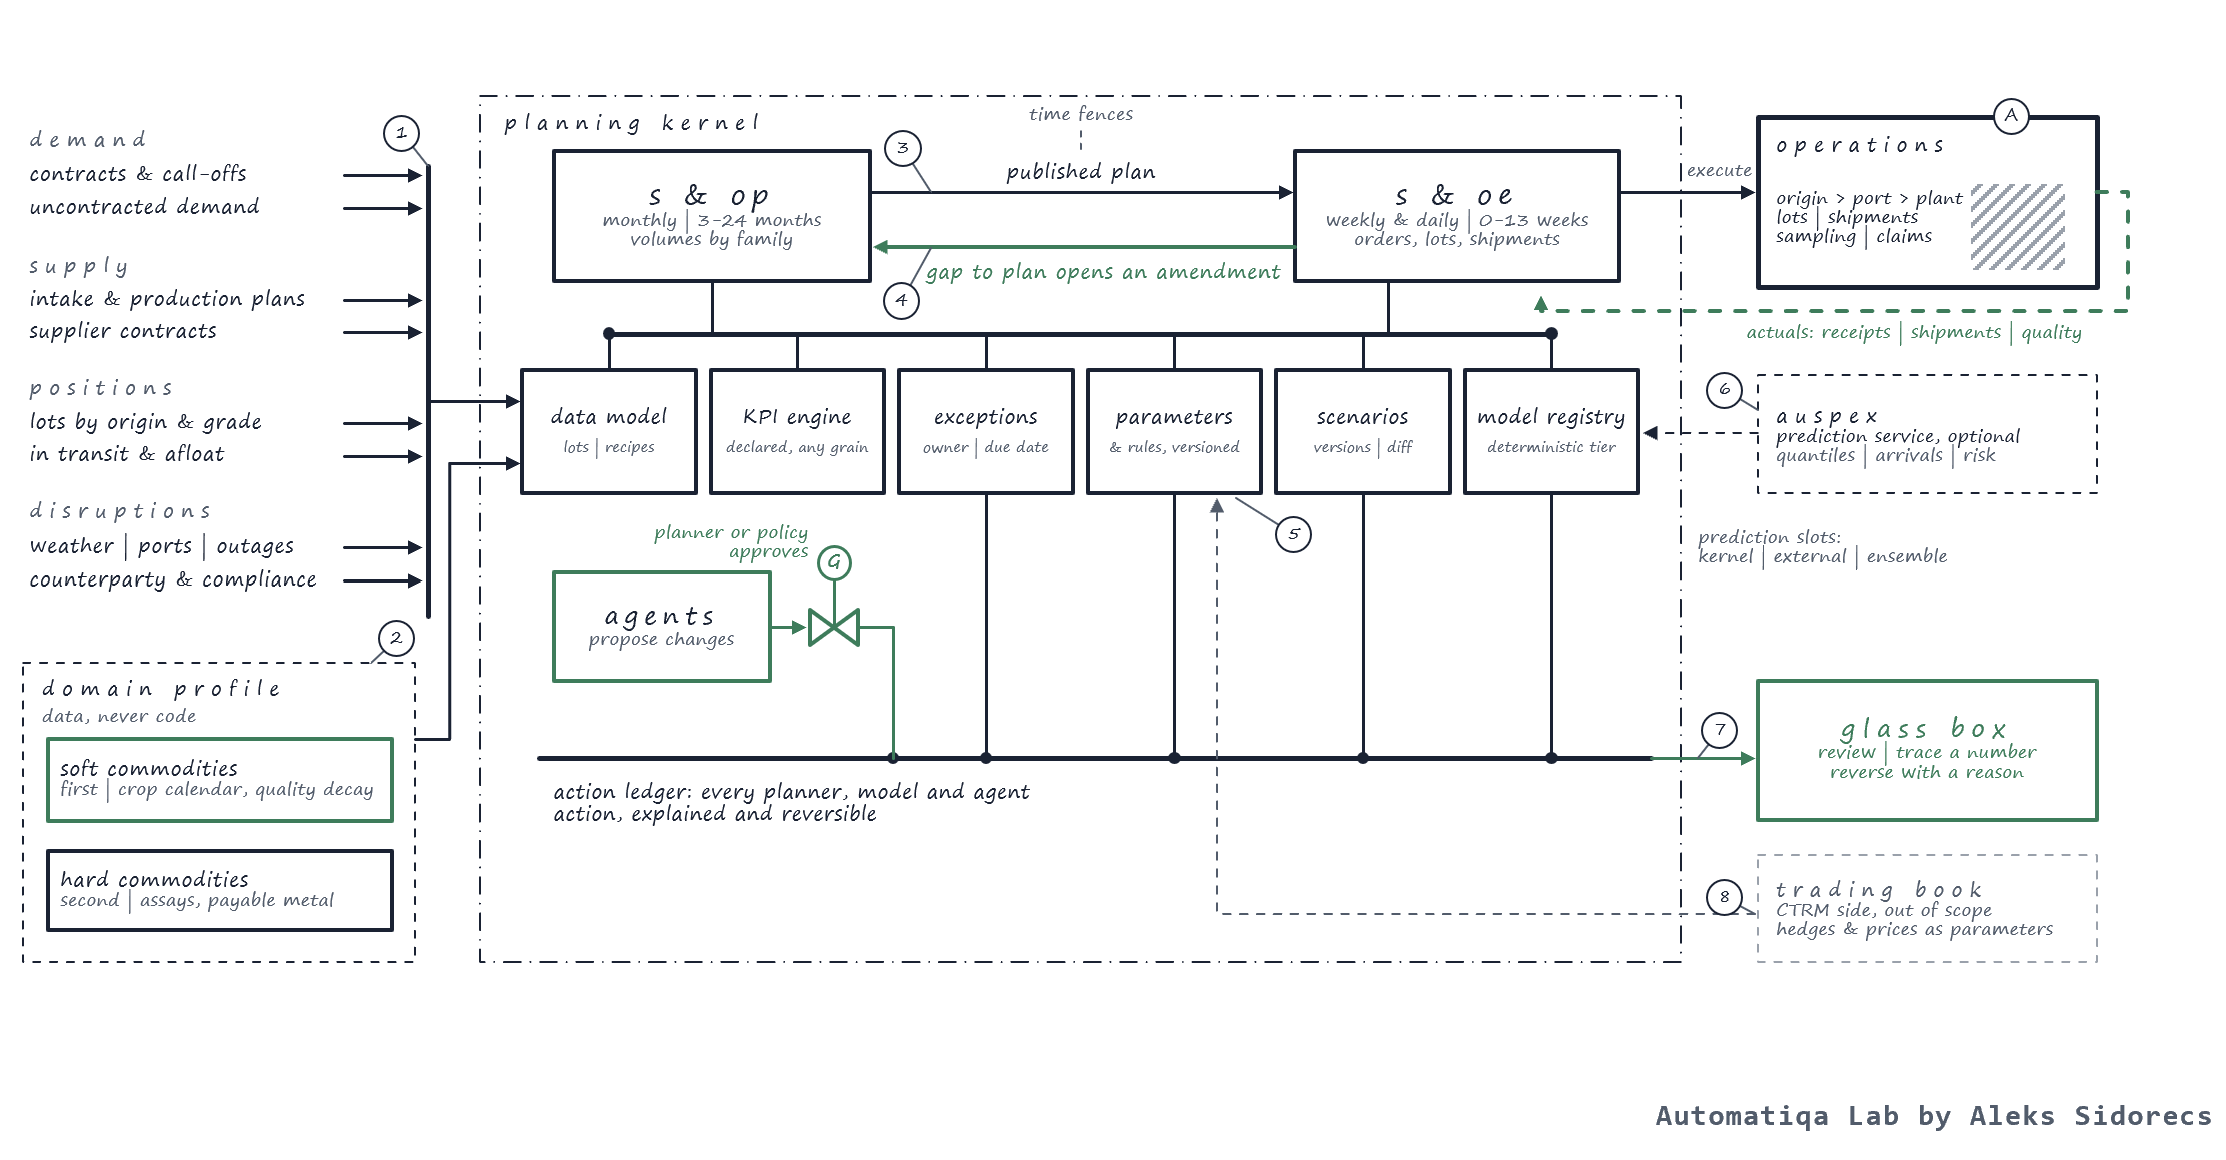
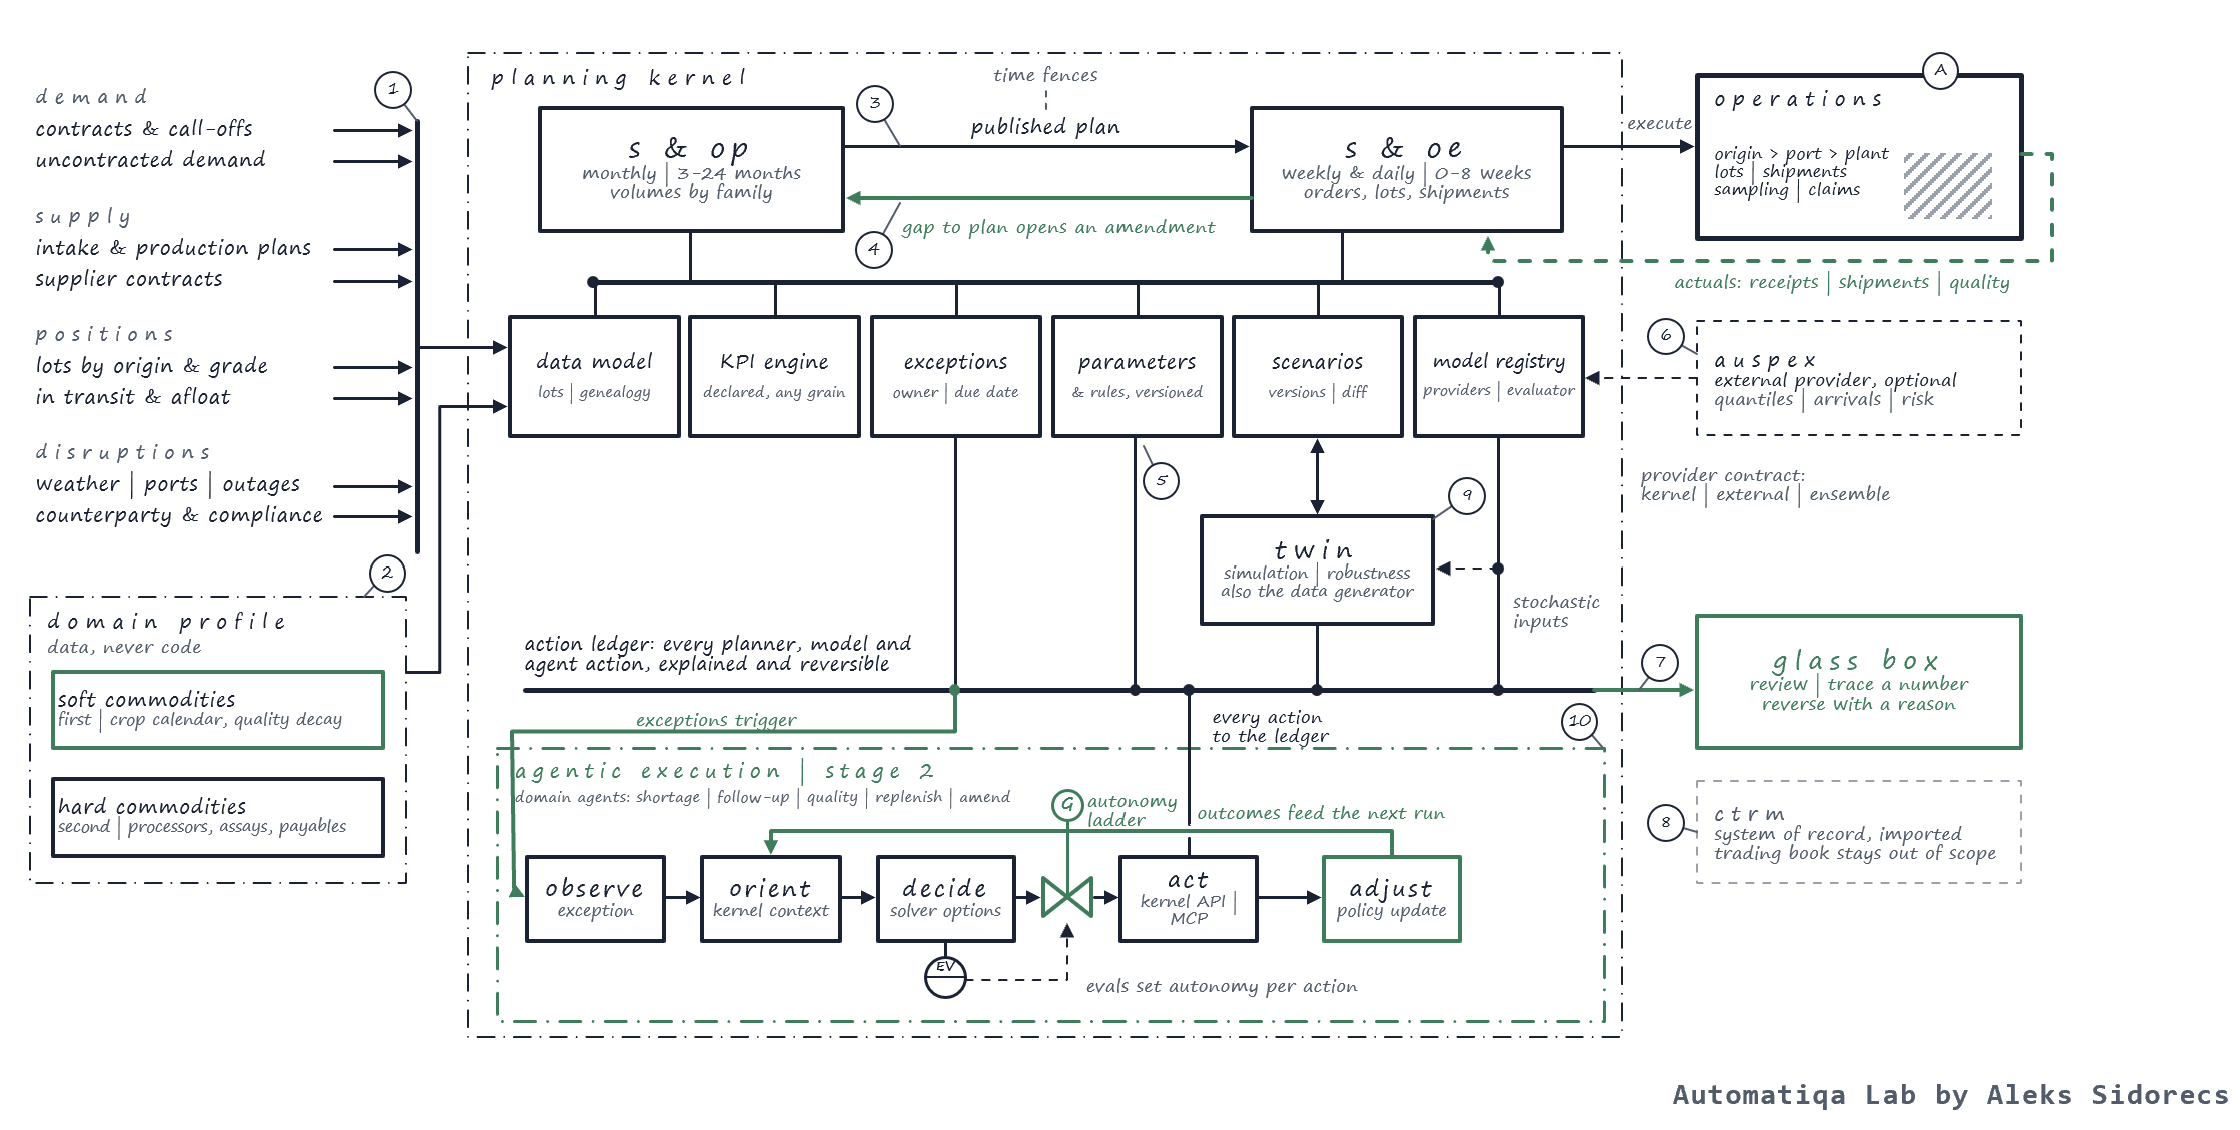
System schematic gains the network twin and the agentic execution layer; how it works keyed to all ten callouts; roadmap in three stages

diff --git a/README.md b/README.md
@@ -2,11 +2,11 @@
 
 Supply Chain Operations Planning & Execution in Commodities.
 
-SCOPEC is a supply chain operations planning and execution tool for commodities. One planning kernel runs S&OP and S&OE on the same data model, and commodity knowledge lives in domain profiles as data, not in code. Soft commodities come first, hard commodities next.
+SCOPEC is a supply chain operations planning and execution tool for commodities. One planning kernel runs S&OP and S&OE on the same data model, commodity knowledge lives in domain profiles as data, not in code, and agents act on exceptions under an autonomy ladder they earn. Soft commodities come first, hard commodities after.
 
 Part of [Automatiqa Lab](https://www.automatiqa.io). Project page: [automatiqa.io/scopec](https://www.automatiqa.io/scopec/).
 
-![SCOPEC system schematic: inputs and a domain profile feed a planning kernel that runs S&OP and S&OE, with kernel services, an approval gate for agents, an action ledger, a glass box for review and reversal, Auspex as an optional prediction service, and the trading book outside the scope](docs/scopec-how-it-works-aleks-sidorecs.png)
+![SCOPEC system schematic: inputs and a domain profile feed a planning kernel that runs S&OP and S&OE over kernel services, a network twin and an action ledger; an agentic execution layer runs the OODAA loop on exceptions; a glass box reviews and reverses every action; Auspex is an optional prediction provider and the CTRM stays the system of record](docs/scopec-how-it-works-aleks-sidorecs.png)
 
 *Figure 1 - How SCOPEC works. By Aleks Sidorecs.*
 
@@ -21,23 +21,32 @@ I've spent two decades in supply chain. In commodities the monthly plan usually 
 The numbers follow the callouts in Figure 1.
 
 1. **Inputs arrive as commodity objects** - contracts and call-offs, intake and production plans, lots with origin, grade and certification, positions in transit and afloat, and the disruptions that hit them.
-2. **A domain profile is data, never code** - attributes, quality specs, units, calendar, KPI and rule packs, compliance. The kernel never branches on commodity. The soft commodities profile comes first; the hard commodities profile is built over the same kernel second.
-3. **One kernel, two horizons.** S&OP plans volumes by family each month. S&OE runs orders, lots and shipments each week and day. Time fences separate them; the published plan moves from one to the other.
+2. **A domain profile is data, never code** - attributes, quality specs, units, calendar, KPI and rule packs, compliance. The kernel never branches on commodity. The soft commodities profile comes first; the hard commodities profile, for processors, is built over the same kernel later.
+3. **One kernel, two horizons.** S&OP plans volumes by family each month, three to twenty-four months out. S&OE runs orders, lots and shipments each week and day, up to eight weeks out. Time fences separate them; the published plan moves from one to the other.
 4. **Gap to plan is the hinge.** When actuals from operations breach tolerance, S&OE opens an exception with an owner and proposes an amendment to the published plan.
 5. **Every constant is a parameter** with scope, effective dates and provenance, snapshotted into each scenario. Thresholds and rules are data too, so two plan versions can be diffed parameter by parameter.
-6. **Each prediction slot has a binding** - the kernel's deterministic tier, [Auspex](https://github.com/automatiqa-lab/auspex) as an optional prediction service, or an ensemble. Every number records which binding produced it.
-7. **Agents propose, a planner or a policy approves** at the gate. The action ledger records every planner, model and agent action, explained in planning language. The glass box lets you review it, trace a number back to its inputs, and reverse it with a reason.
-8. **Physical planning only.** Hedging, mark-to-market and the trading book stay in the CTRM and enter SCOPEC as parameters and scenarios.
+6. **Predictions arrive through a provider contract SCOPEC owns.** Each prediction slot binds to the kernel's deterministic tier, to [Auspex](https://github.com/automatiqa-lab/auspex) as an optional external provider, or to an ensemble; the evaluator in the model registry sets the default binding from backtests. Every number records which binding produced it.
+7. **The action ledger records every planner, model and agent action,** explained in planning language. The glass box lets you review it, trace a number back to its inputs, and reverse it with a reason.
+8. **The CTRM stays the system of record.** Contracts and positions are imported through an adapter; hedging, mark-to-market and the trading book stay in the CTRM and enter SCOPEC as parameters and scenarios.
+9. **The network twin tests the plan.** One discrete-event simulation core runs a scenario forward with stochastic inputs from the prediction slots and returns distributions, not points - service, days of cover, demurrage, margin, and the probability that the published plan holds. The solvers say what to do; the twin says how robust it is. The same core generates the synthetic company the models are tested on, and every run is logged with its seed.
+10. **Agentic execution runs the OODAA loop on exceptions.** An exception from the kernel is the trigger. A domain agent - shortage and allocation, purchase order and shipment follow-up, quality hold and claim, replenishment, gap-to-plan amendment - observes it, orients with context from kernel services, decides among options whose numbers come from the solvers and providers, never from the model, passes the gate, acts through the kernel API, and adjusts: the outcome goes to the ledger, and the ledger evidence widens or narrows its autonomy. The kernel API is the agent's tool set, typed and allowlisted, so an agent can do nothing a planner could not; the same tools are exposed over MCP.
 
-**Legend.** Solid line: signal or action. Dashed: measurement or an external service. Dash-dot: system boundary. Green: the loop that keeps the plan honest - actuals, gap to plan, agents under approval, the glass box. Bowtie valve: approval gate. Circled letters: instruments, A for actuals and G for the gate. Hatched block: the physical operation.
+**Autonomy ladder.** Observe, propose, apply with approval, apply with notification, autonomous within limits - set per action type and scope as parameters, earned upward on ledger evidence, cut back the same way, with a kill switch per agent. Evals measure each decision and set the level per action.
+
+**Legend.** Solid line: signal or action. Dashed: measurement or an external provider. Dash-dot: system boundary. Green: the loop that keeps the plan honest - actuals, gap to plan, the agentic execution layer, the glass box. Bowtie valve: approval gate. Circled letters: instruments - A for actuals, G for the gate, EV for evals. Hatched block: the physical operation.
 
 ## Roadmap
 
-1. **Kernel and data model** - lots, recipes with yields and co-products, contracts, positions, the parameter and rules store, the scenario store, and a synthetic company generator. In progress.
-2. **Soft commodities profile** - crop calendars, intake forecasts with weather covariates, quality degradation in storage, certification and EUDR traceability, blend optimisation. Next.
-3. **Deterministic model library and S&OP** - demand, inventory, MRP with yields and co-products, capacity as a linear programme, finance and risk.
-4. **S&OE** - contract allocation, available-to-promise, shortage control tower, shipment follow-up, gap to plan.
-5. **Hard commodities profile** - metals and minerals: assays, wet and dry tonnes, payable metal, shutdown calendars. Built as data over the same kernel, and allowed to break it where the abstraction is wrong.
+**Stage 1 - soft commodities.**
+
+1. Kernel and data model - lots with genealogy, recipes with yields and co-products, contracts and positions, the parameter and rules store, the scenario store, the action ledger, and the simulation core as a synthetic company generator. In progress.
+2. Soft commodities profile - crop calendars, intake forecasts, quality degradation in storage, certification and EUDR traceability, blend optimisation.
+3. S&OP and the deterministic model library - demand, inventory, MRP with yields and co-products, capacity as a linear programme, finance and risk; the network twin beside the solvers.
+4. S&OE - contract allocation, available-to-promise, shortage control tower, shipment follow-up, gap to plan.
+
+**Stage 2 - agentic execution.** Domain agents on the exception engine, the autonomy ladder, MCP tools, and the assistant - every model-written line marked under Article 50.
+
+**Stage 3 - hard commodities.** Metals and minerals for processors: assays, wet and dry tonnes, payable metal, pricing formulas and settlement, shutdown calendars. Built as data over the same kernel, and allowed to break it where the abstraction is wrong.
 
 Out of scope: energy, and the trading book.
 
@@ -47,7 +56,7 @@ In development, about 20%. Design and data model first; code lands here at v0.1.
 
 ## EU AI Act
 
-SCOPEC's planned agents and assistant draft text with a language model, so that output will carry transparency marking under Article 50.
+SCOPEC's agents and assistant draft text with a language model, so that output carries transparency marking under Article 50.
 
 - Content a model wrote is marked; content a person wrote, and numbers from deterministic models, are not. Planning numbers carry their provenance in the action ledger instead.
 - Marking travels in two channels: a line you can read, and metadata a machine can detect in every export. The schema is `automatiqa-disclosure/1`.

diff --git a/COMPLIANCE.md b/COMPLIANCE.md
@@ -22,7 +22,7 @@ Recorded 2026-10-11.
 
 | Obligation | Applies | How this project meets it |
 |---|---|---|
-| Art. 50(1) interaction disclosure | yes, once the assistant ships | The assistant identifies itself as AI at the start of every session |
+| Art. 50(1) interaction disclosure | yes, once the assistant and agents ship | The assistant identifies itself as AI at the start of every session; agent messages to suppliers and colleagues carry the readable AI-generated line |
 | Art. 50(2) machine-readable marking | yes | Disclosure middleware at the agent boundary; metadata in every export path (JSON, HTML, Markdown, PDF, XLSX, PPTX) and in the action ledger |
 | Art. 50(4) deployer disclosure | deployer-side | See "What remains the deployer's job" |
 | Art. 4 AI literacy | yes | This file, the README section and the glass box explanations |
@@ -81,3 +81,4 @@ first agent commit).
 | 2026-10-11 | Classified as provider of the content-generating system once agents ship; Annex III screened negative | Agents and assistant draft text with a model the operator chooses |
 | 2026-10-11 | Deterministic and statistical outputs carry ledger provenance, not an AI label | They are planning numbers, not synthetic text; blanket labels mislead |
 | 2026-10-11 | Disclosure middleware is wired before the first agent commit | Retrofitting a boundary leaves paths uncovered |
+| 2026-10-11 | Agentic execution layer (stage 2): agents act on kernel exceptions through the typed, allowlisted kernel API under an autonomy ladder with a kill switch per agent; every quantity comes from a solver or provider | An agent can do nothing a planner could not, and every action is a ledger event; the model drafts and chooses, it never produces a number |
